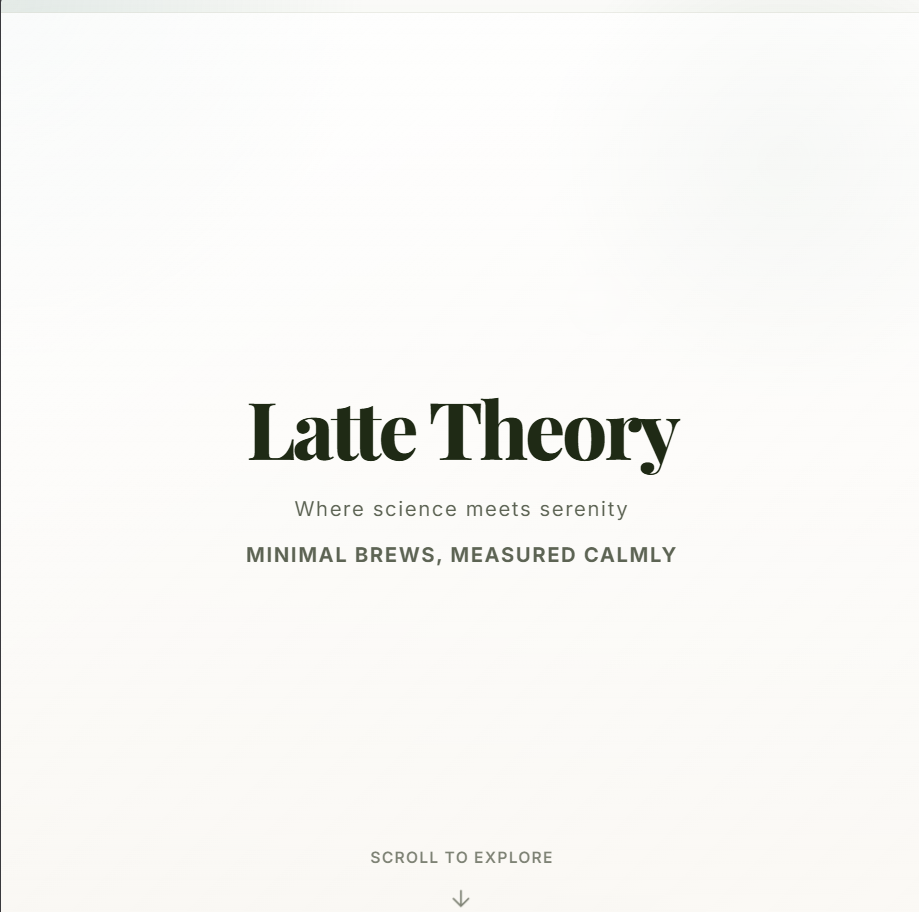
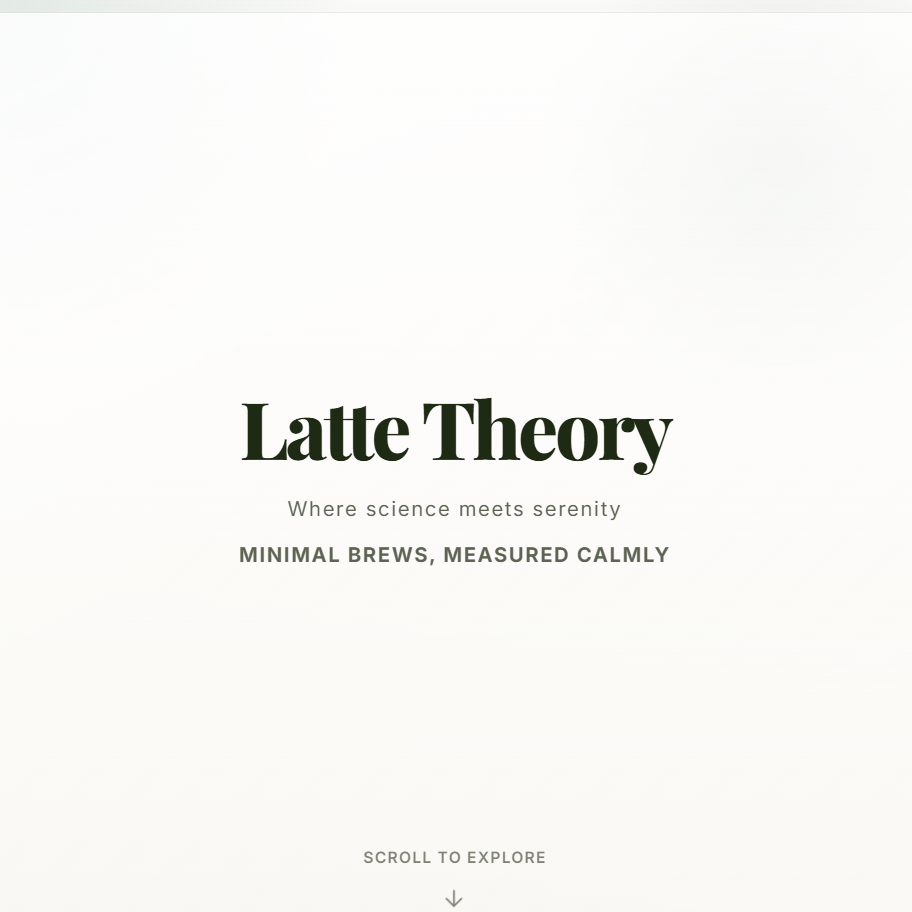
Optimize mobile works transitions using GPU transform properties and requestAnimationFrame throttling

diff --git a/index.html b/index.html
@@ -836,9 +836,16 @@
             };
 
             let scrollEndTimeout = null;
+            let scrollRequestActive = false;
             snapContainer.addEventListener("scroll", () => {
-                // Perform real-time parallax scaling/fading updates
-                animateWorksScroll(snapContainer);
+                // Perform real-time parallax scaling/fading updates inside requestAnimationFrame for smooth mobile renders
+                if (!scrollRequestActive) {
+                    scrollRequestActive = true;
+                    requestAnimationFrame(() => {
+                        animateWorksScroll(snapContainer);
+                        scrollRequestActive = false;
+                    });
+                }
 
                 if (isLooping) return;
 

diff --git a/index.css b/index.css
@@ -1477,12 +1477,12 @@ body.menu-lock {
         max-width: 100%;
         opacity: 1;
         transform: translateY(0);
-        transition: opacity 0.4s ease-in-out, transform 0.4s ease-in-out, max-height 0.4s ease-in-out;
+        transition: opacity 0.35s cubic-bezier(0.23, 1, 0.32, 1), transform 0.35s cubic-bezier(0.23, 1, 0.32, 1);
         max-height: 380px;
         margin-right: 0 !important;
     }
     
-    /* Collapsed view states on mobile (moves card to center, hides details vertically) */
+    /* Collapsed view states on mobile (moves card to center, hides details vertically via GPU transforms) */
     .works-split-layout.collapsed-view .work-info-col {
         opacity: 0 !important;
         pointer-events: none !important;
@@ -1490,6 +1490,7 @@ body.menu-lock {
         max-height: 0 !important;
         overflow: hidden !important;
         margin-bottom: 0 !important;
+        transition: opacity 0.35s cubic-bezier(0.23, 1, 0.32, 1), transform 0.35s cubic-bezier(0.23, 1, 0.32, 1), max-height 0s linear 0.35s !important;
     }
     
     .work-cover-col {